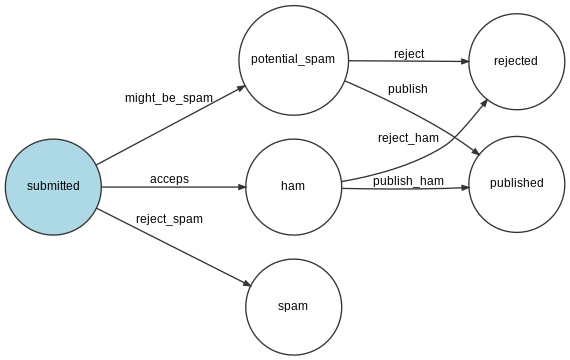
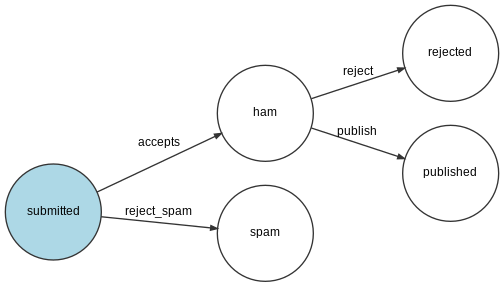
add workflow yaml & conditions in CommentMessageHandler

diff --git a/src/MessageHandler/CommentMessageHandler.php b/src/MessageHandler/CommentMessageHandler.php
@@ -6,7 +6,10 @@ use App\Message\CommentMessage;
 use App\Repository\CommentRepository;
 use App\Service\SpamCheckerService;
 use Doctrine\ORM\EntityManagerInterface;
+use Psr\Log\LoggerInterface;
 use Symfony\Component\Messenger\Handler\MessageHandlerInterface;
+use Symfony\Component\Messenger\MessageBusInterface;
+use Symfony\Component\Workflow\WorkflowInterface;
 use Symfony\Contracts\HttpClient\Exception\ClientExceptionInterface;
 use Symfony\Contracts\HttpClient\Exception\RedirectionExceptionInterface;
 use Symfony\Contracts\HttpClient\Exception\ServerExceptionInterface;
@@ -16,12 +19,24 @@ class CommentMessageHandler implements MessageHandlerInterface
     private EntityManagerInterface $entityManager;
     private CommentRepository $commentRepository;
     private SpamCheckerService $spamCheckerService;
+    private MessageBusInterface $bus;
+    private WorkflowInterface $workflow;
+    private LoggerInterface $logger;
 
-    public function __construct(EntityManagerInterface $entityManager, CommentRepository $commentRepository, SpamCheckerService $spamCheckerService)
+    public function __construct(EntityManagerInterface $entityManager,
+                                CommentRepository $commentRepository,
+                                SpamCheckerService $spamCheckerService,
+                                MessageBusInterface $bus,
+                                WorkflowInterface $commentStateMachine,
+                                LoggerInterface $logger
+    )
     {
         $this->entityManager = $entityManager;
         $this->commentRepository = $commentRepository;
         $this->spamCheckerService = $spamCheckerService;
+        $this->bus = $bus;
+        $this-> workflow = $commentStateMachine;
+        $this->logger = $logger;
     }
 
     /**
@@ -36,9 +51,24 @@ class CommentMessageHandler implements MessageHandlerInterface
             return;
         }
 
-        $status = $this->spamCheckerService->getSpamCheck($comment) ? 'published' : 'spam';
-        $comment->setState($status);
-        $this->entityManager->flush();
+        if ($this->workflow->can($comment, 'accepts')){
+            $status = $this->spamCheckerService->getSpamCheck($comment) ? 'ham' : 'spam';
+            $transition = 'accepts';
+            if ('spam' === $status){
+                $transition = 'reject_spam';
+            }
+            $this->workflow->apply($comment, $transition);
+            $this->entityManager->flush();
+            $this->bus->dispatch($message);
+        } elseif($this->workflow->can($comment, 'publish')) {
+            $this->workflow->apply($comment, 'published');
+        }else{
+            $this->logger->bebug('Dropping comment message', ['comment'=>$comment->getId(), 'state'=>$comment->getState()]);
+        }
+
+
+//        $comment->setState($status);
+//        $this->entityManager->flush();
 
     }
 }
